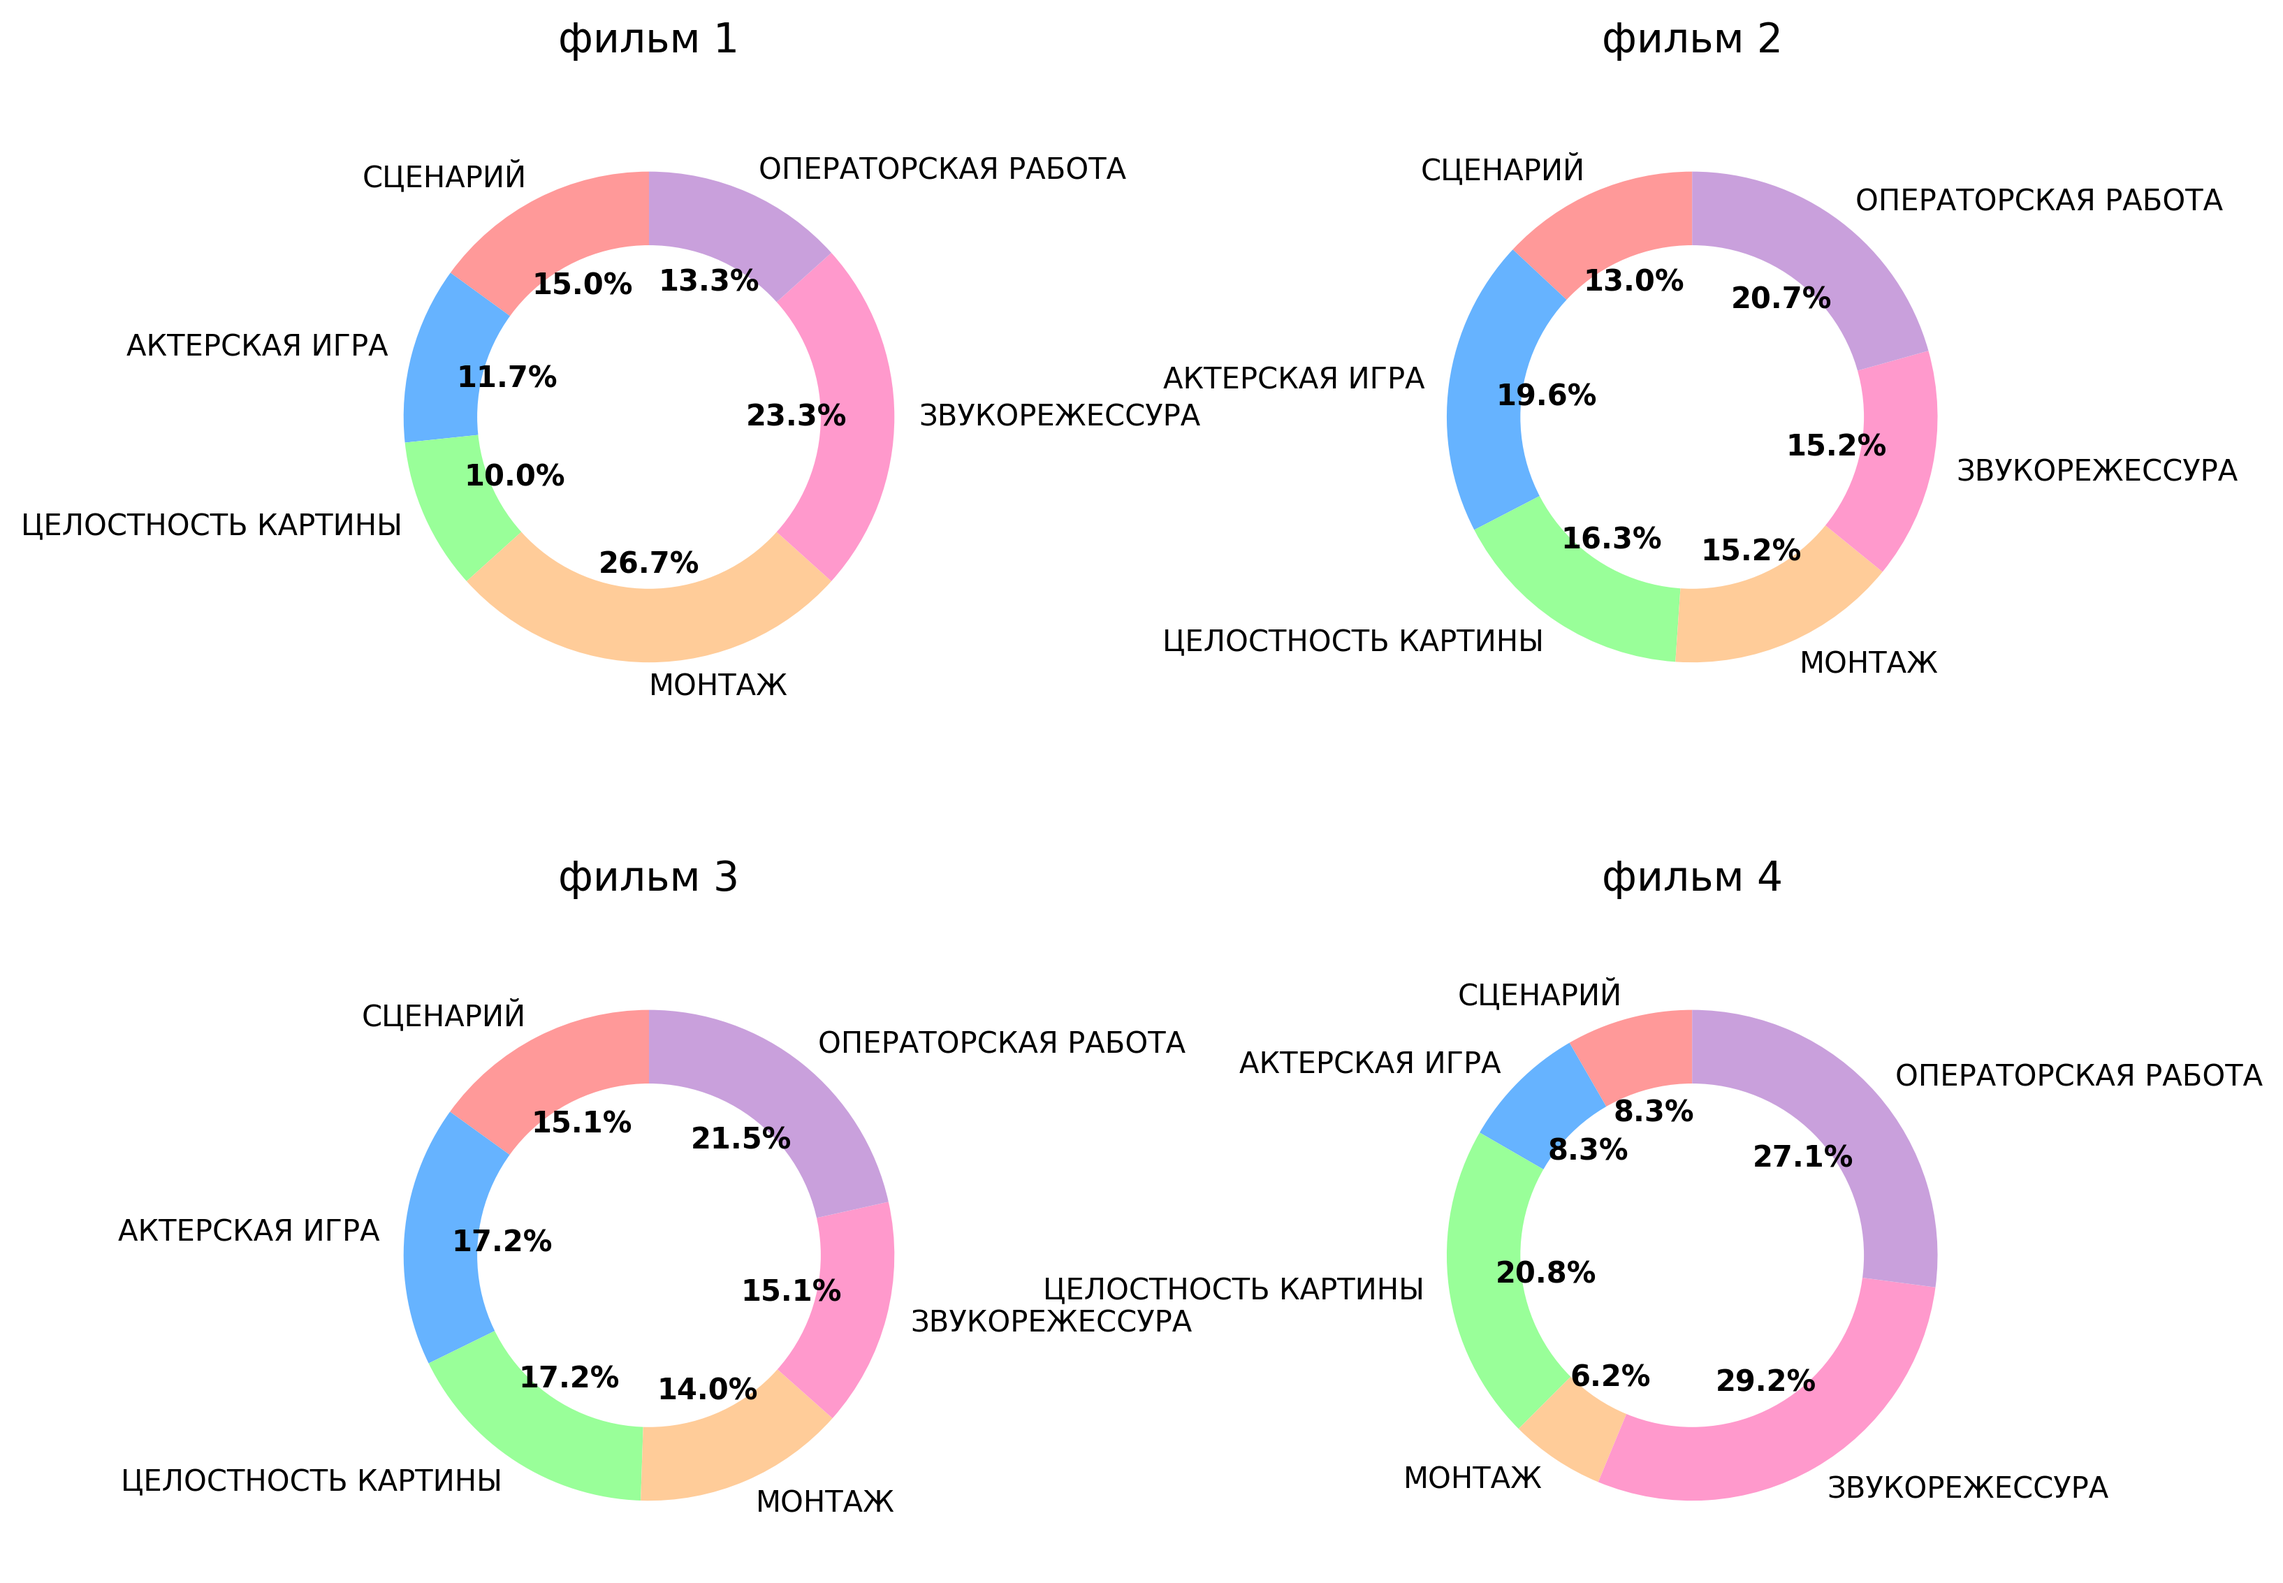
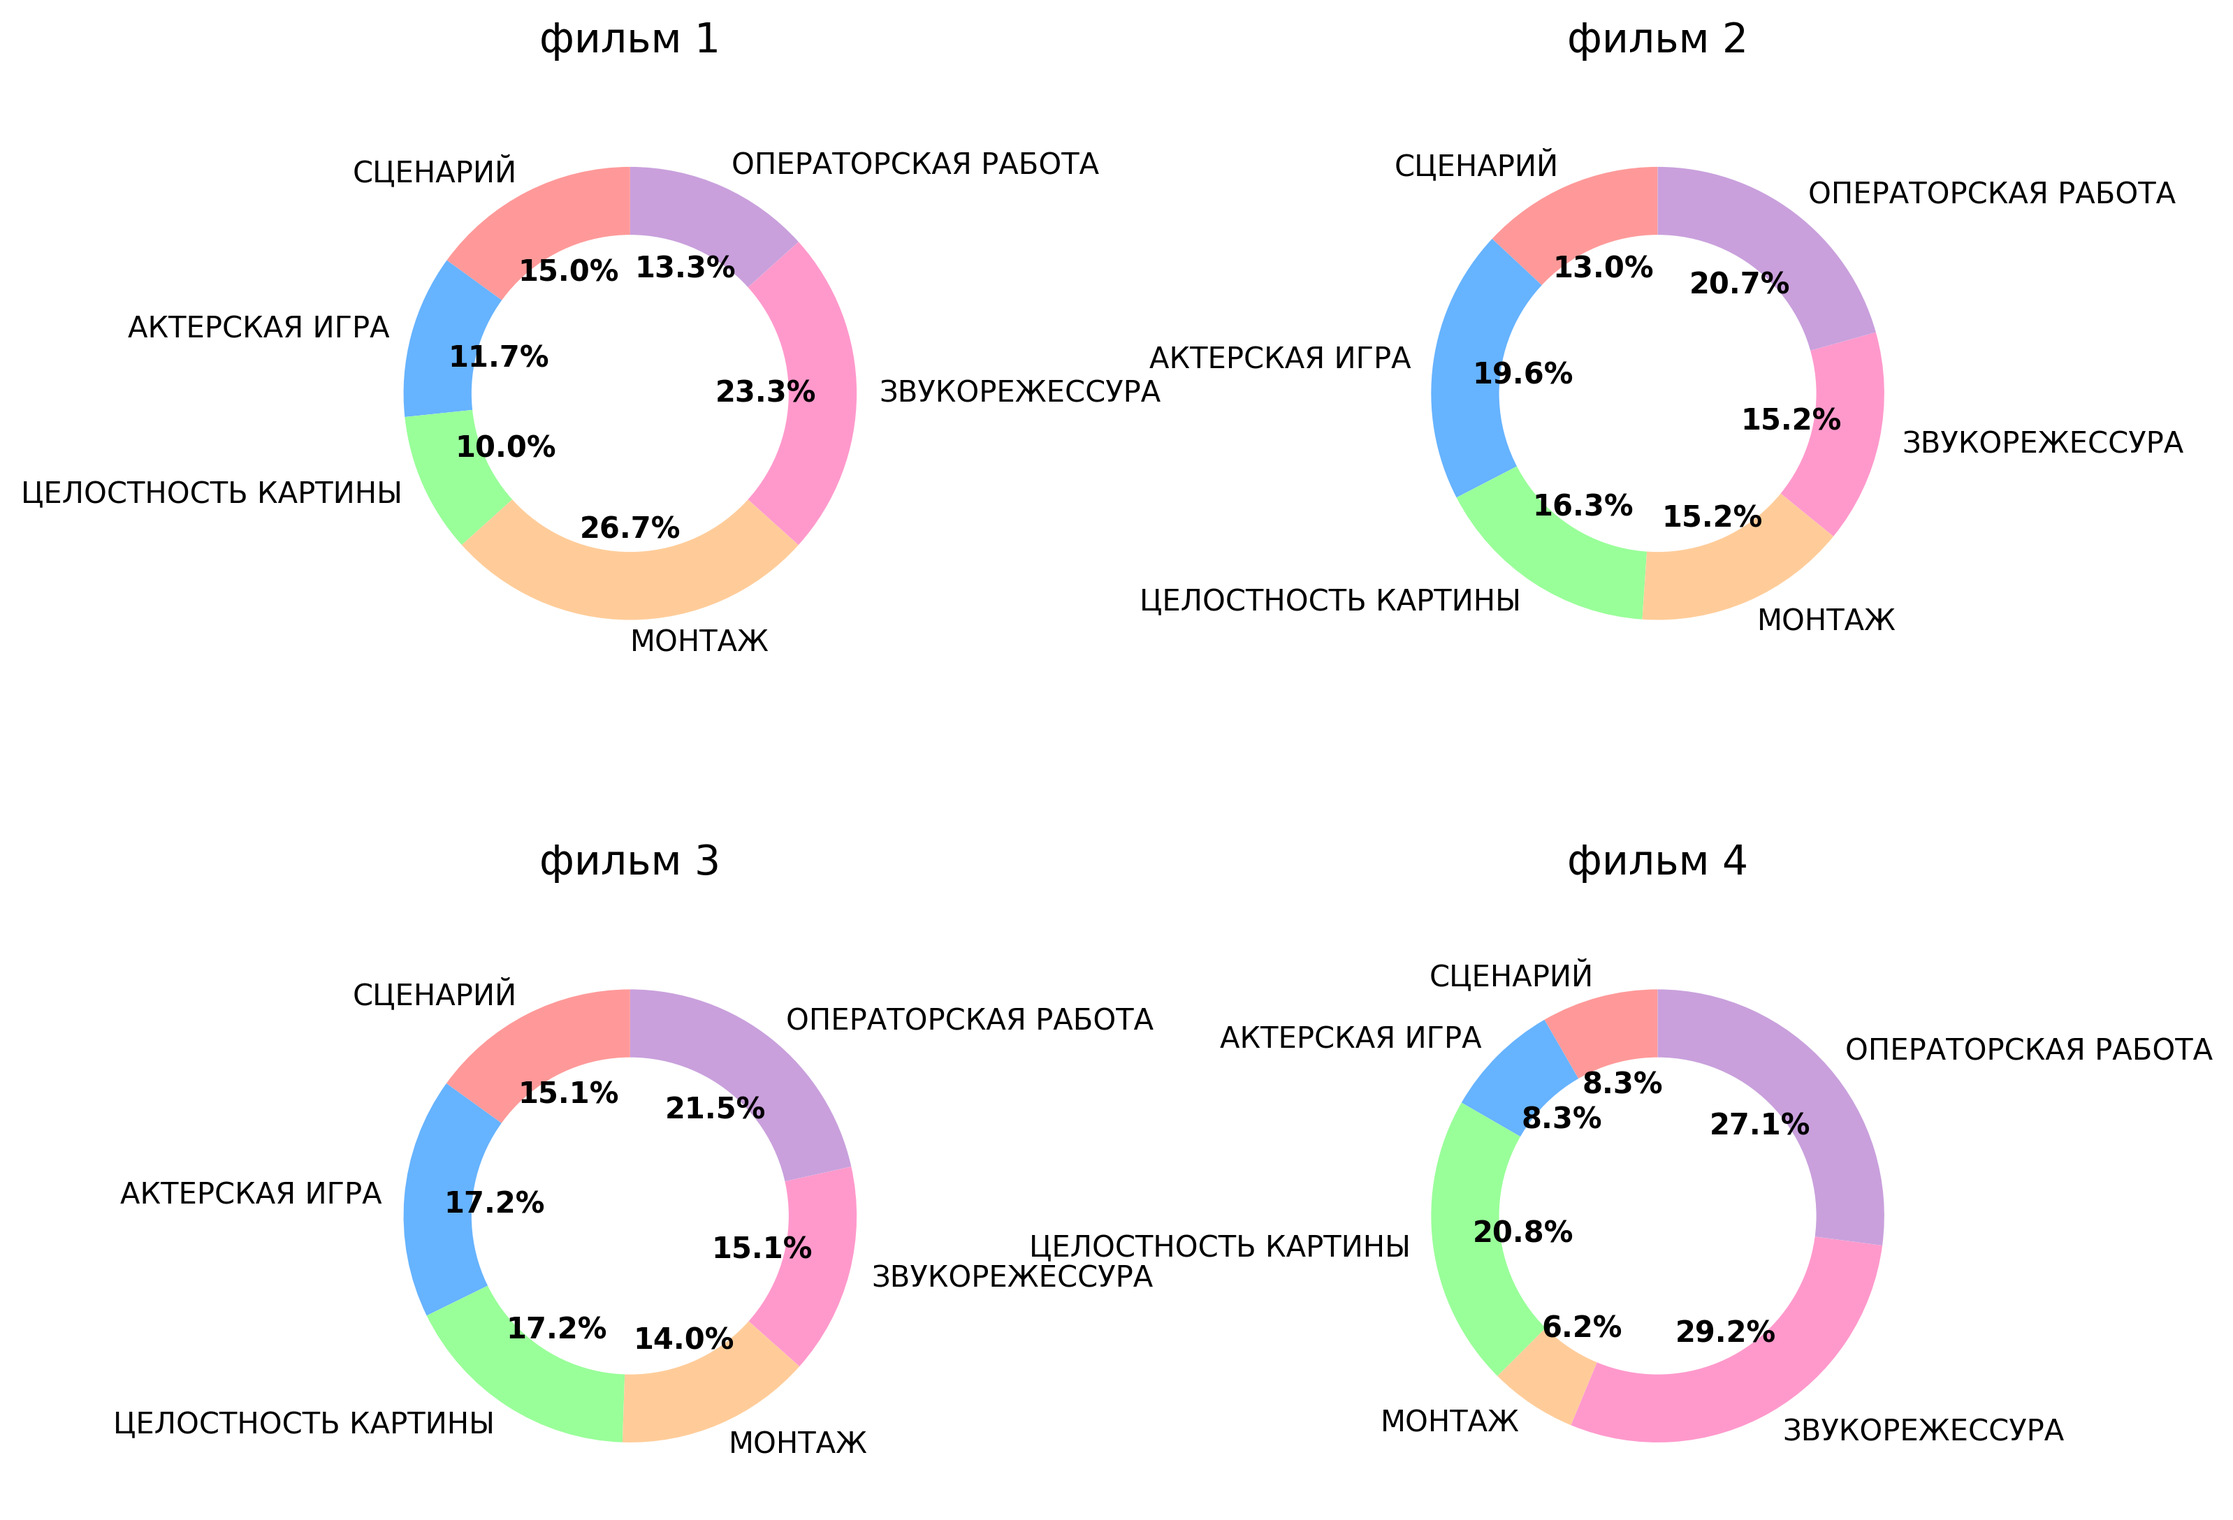
fixed weight counting

diff --git a/interface.py b/interface.py
@@ -2,6 +2,7 @@ import matplotlib.pyplot as plt
 import numpy as np
 from collections import defaultdict
 import os
+from config import settings
 
 
 os.makedirs('графики', exist_ok=True)
@@ -101,8 +102,10 @@ def plot_radar_chart(data):
 def calculate_overall_average(film_data):
     all_scores = []
     for category in film_data:
+        category_scores = []
         for rate in film_data[category]:
-            all_scores.append(rate['value'] * rate['weight'])
+            category_scores.append(rate['value'])
+        all_scores.append(sum(category_scores) / len(category_scores) * settings.criteria_weights.get(category, 1))
     return sum(all_scores)
 
 # Вариант 4: График средней оценки по всему фильму

diff --git a/main.py b/main.py
@@ -27,7 +27,7 @@ def extract_data_from_sheet(table: Spreadsheet, sheet_name: str) -> List[Dict]:
             criterion, film_name = key.split(' | ')
 
             rating[film_name] = rating.get(film_name, defaultdict(list))
-            rating[film_name][criterion] += [{'jury': jury, 'value': value, 'weight': settings.criteria_weights.get(criterion, 1)}]
+            rating[film_name][criterion] += [{'jury': jury, 'value': value}]
             
     return rating
 
